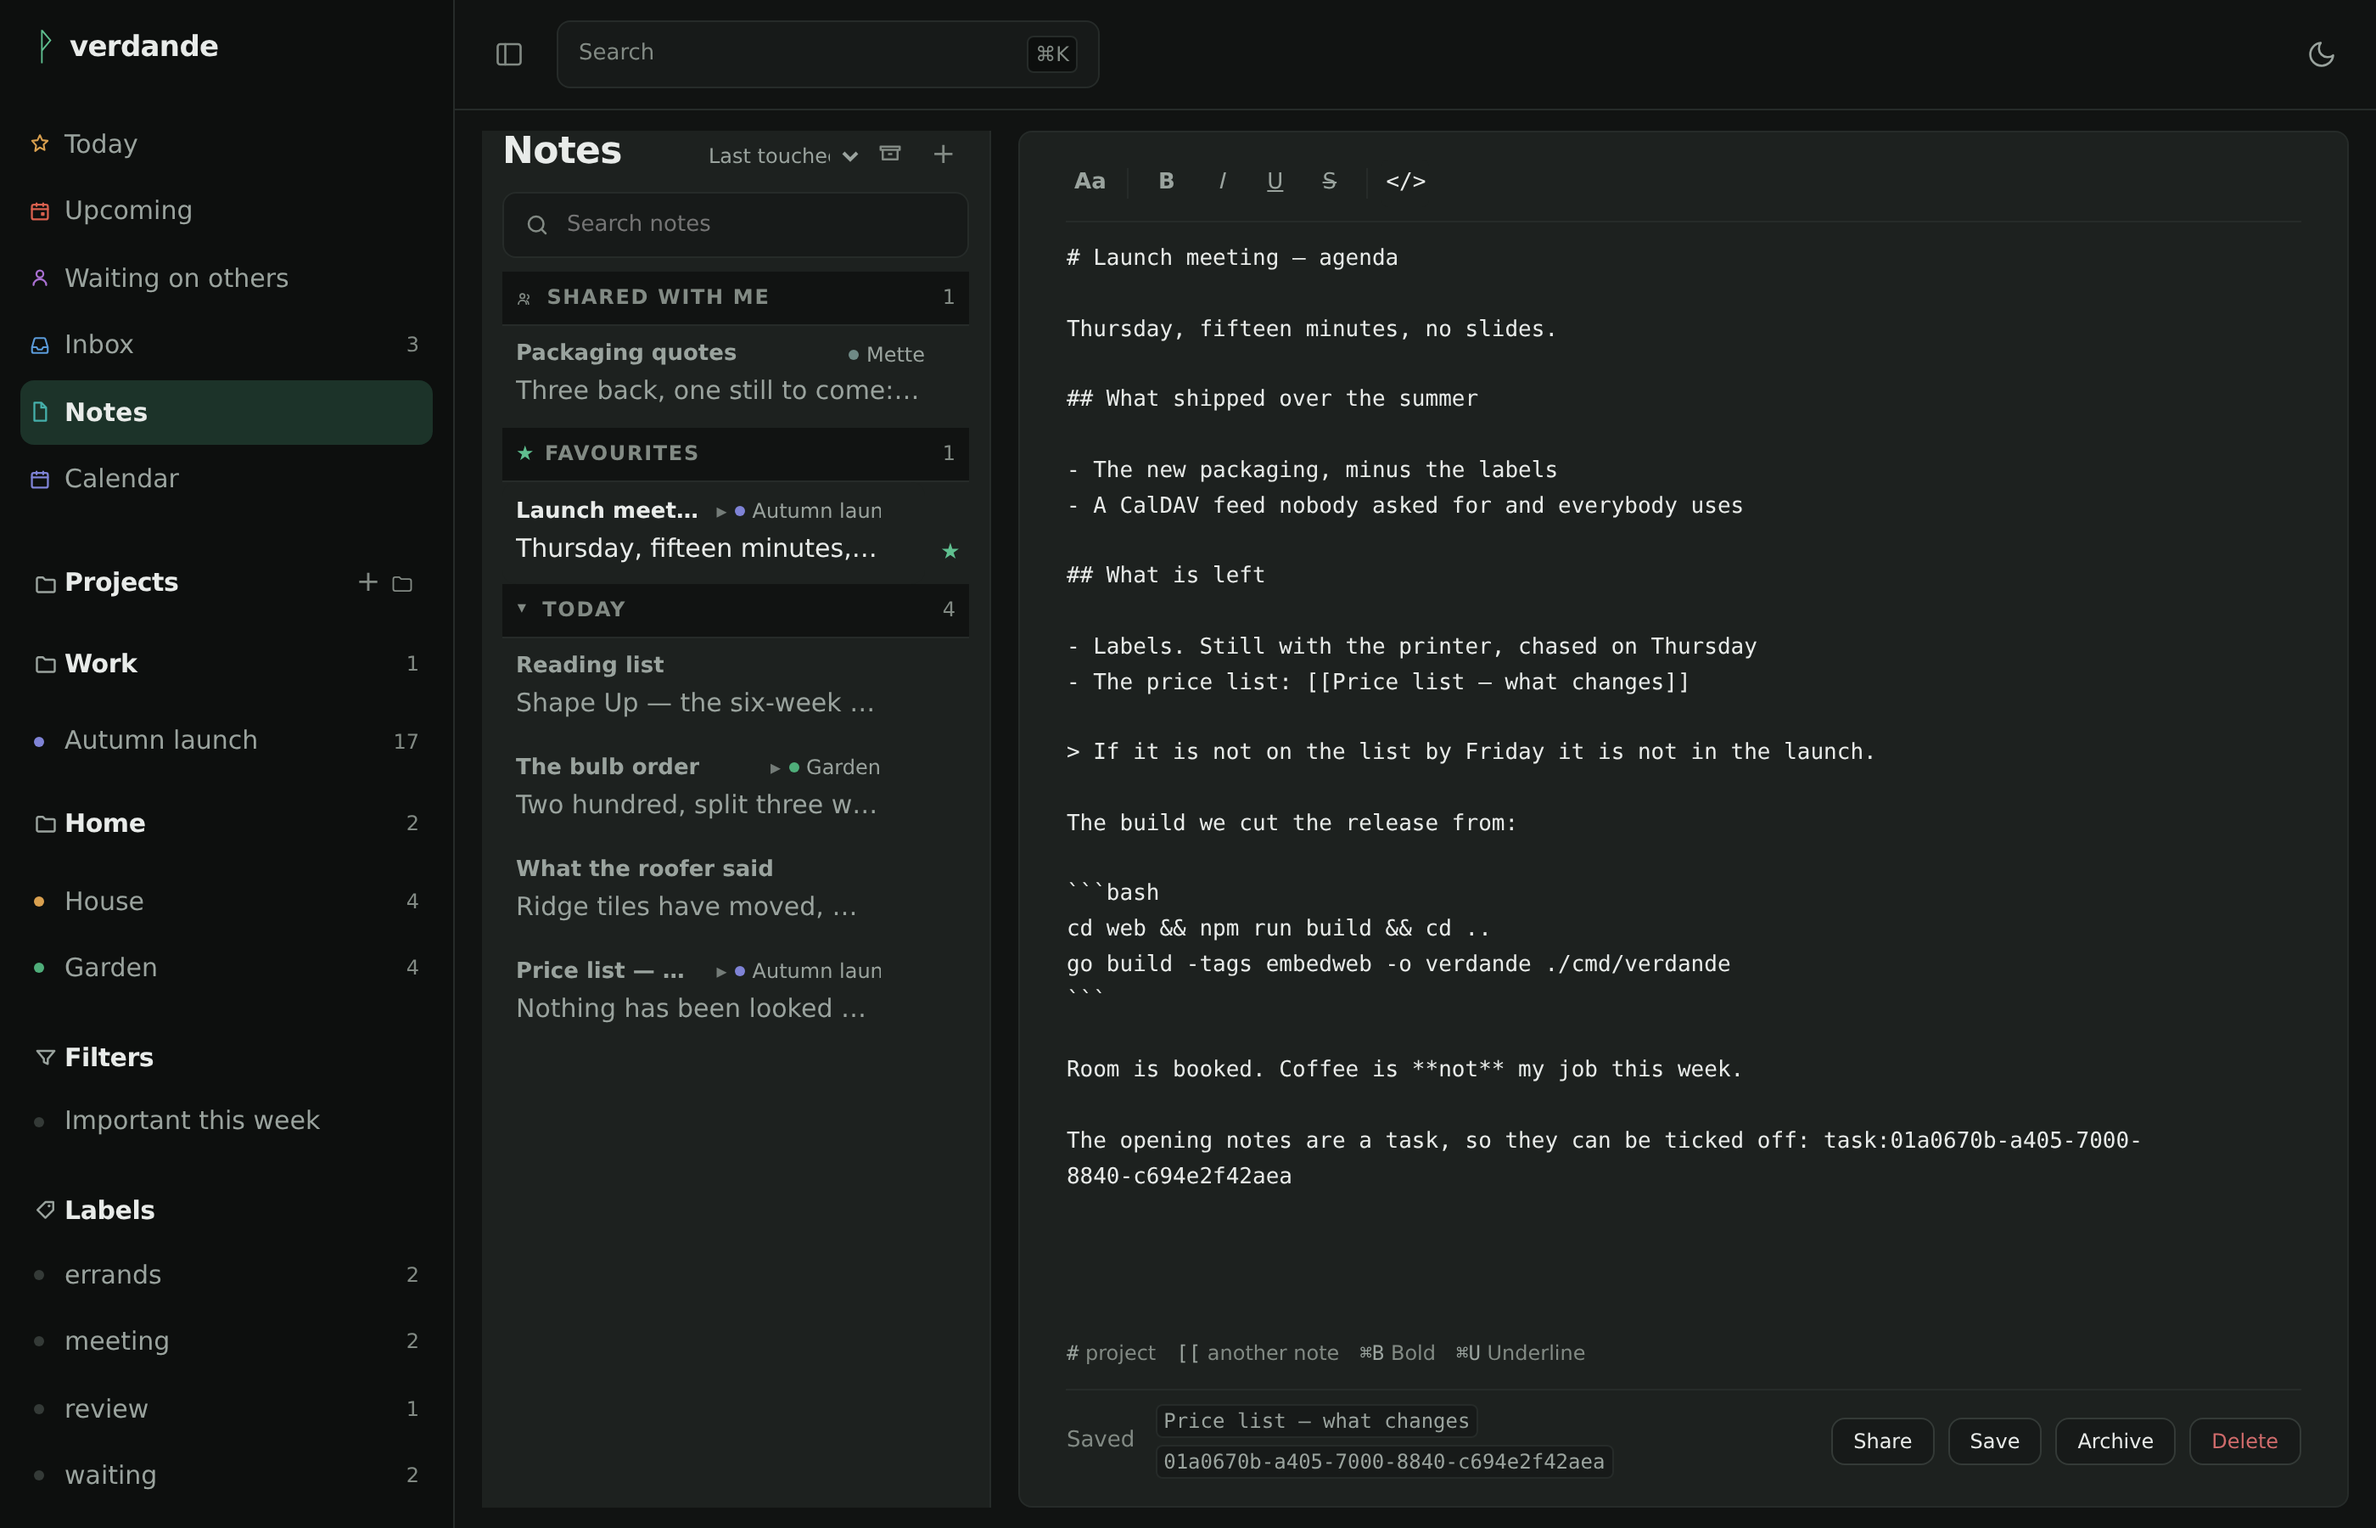
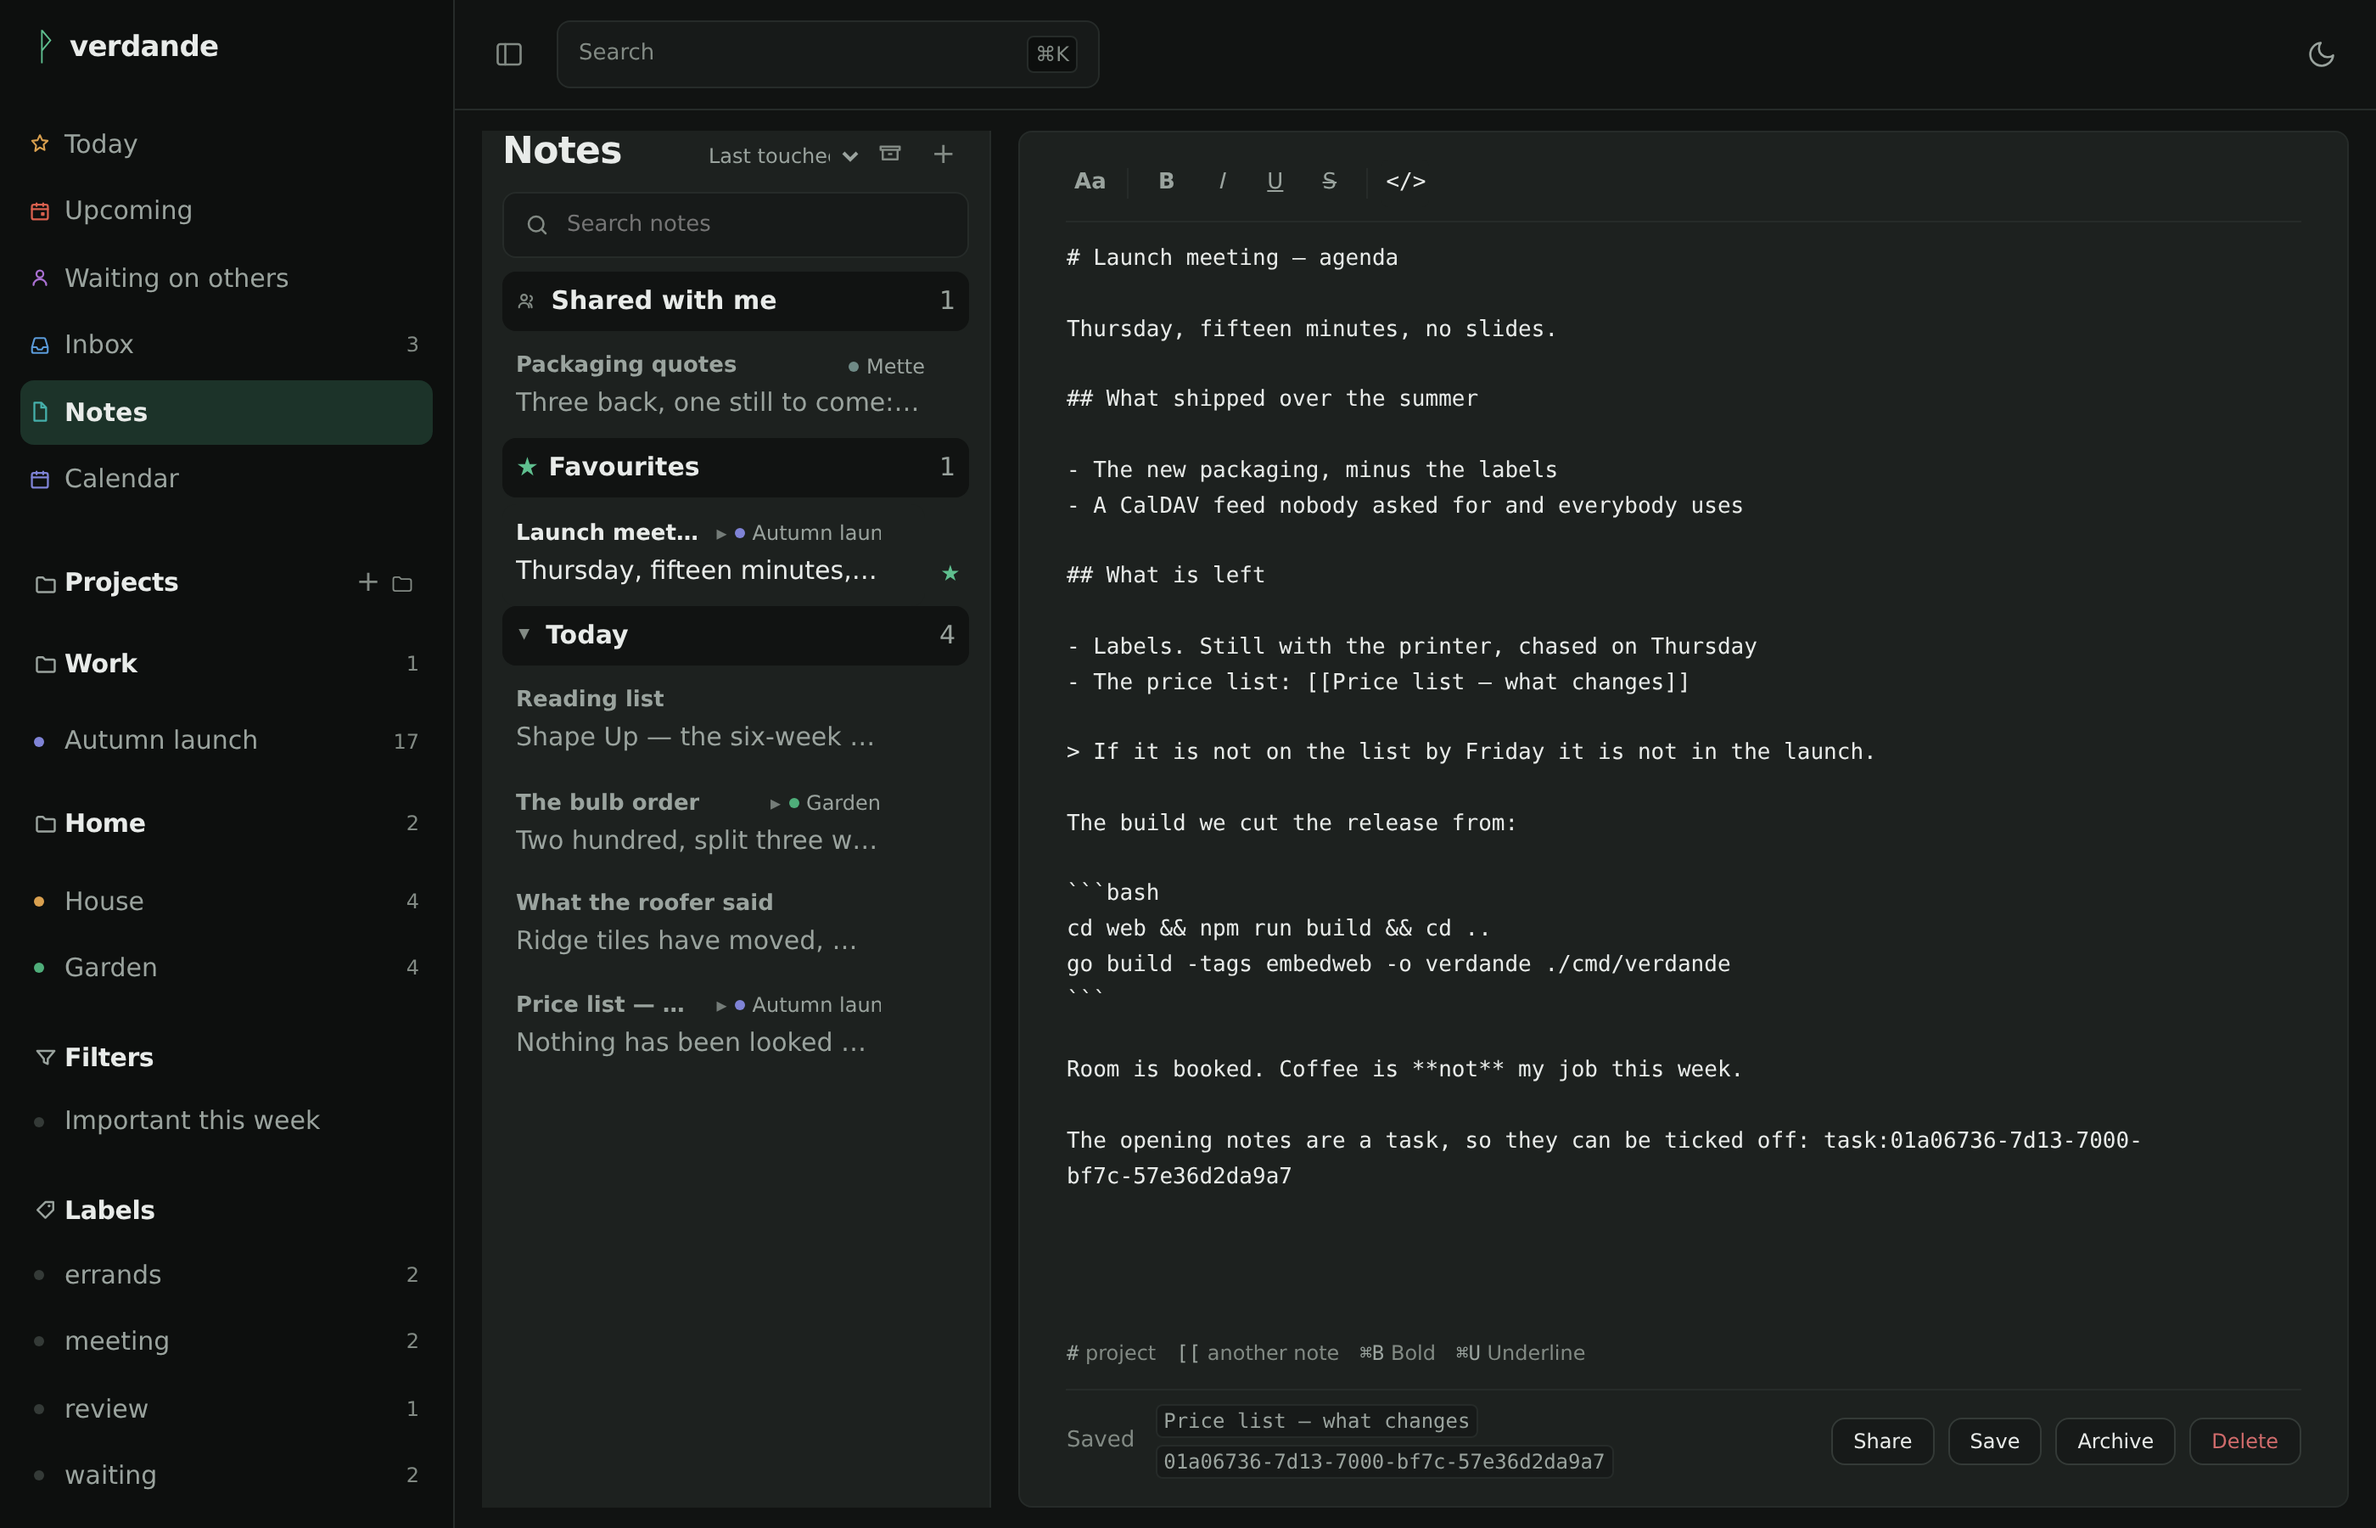
feat(notes): match the note-list headers to the new heading design
The note list still wore the old faint-uppercase group header beside the
sidebar's bold plain-case one, so the two columns read as two apps. The
group headers are bold, plainly cased and in the reading ink now, at
menu size, and their separator boxes carry the same rounded corner as an
active menu item — the hard rule underneath is gone, the box is the
separation. The disclosure mark stays: unlike a sidebar section, a
time-group has no icon, so it is the only thing that says "this folds".

diff --git a/web/src/routes/noter/+page.svelte b/web/src/routes/noter/+page.svelte
@@ -1367,30 +1367,37 @@
 	 *
 	 * Baggrunden er ikke gennemsigtig. En klæbende overskrift uden en er en
 	 * overskrift med rækkerne kørende igennem sig. */
+	/* One design with the sidebar headings: a rounded box, the same corner as an
+	   active menu item, filled just enough to separate one group of notes from the
+	   next. The hard rule underneath is gone — the box is the separation now. */
 	h3.group {
 		position: sticky;
 		top: 0;
 		z-index: 1;
-		margin: 0;
+		margin: 0 0 var(--s1);
 		background: var(--ground);
-		border-bottom: 1px solid var(--line);
+		border-radius: var(--radius);
 	}
 
+	/* Bold and plainly cased, in the reading ink — the faint uppercase label read as
+	   a different app's heading beside the sidebar's. Menu size, so the two tiers of
+	   heading in front of the eye at once are the same size. */
 	h3.group button {
 		display: flex;
 		align-items: center;
 		gap: var(--s2);
 		width: 100%;
 		padding: var(--s2) var(--s2);
-		font-size: var(--text-xs);
+		font-size: var(--menu-size);
 		font-weight: 600;
-		letter-spacing: 0.07em;
-		text-transform: uppercase;
-		color: var(--ink-faint);
+		letter-spacing: normal;
+		text-transform: none;
+		color: var(--ink);
+		border-radius: var(--radius);
 	}
 
 	h3.group button:hover {
-		color: var(--ink-muted);
+		background: var(--surface-sunken);
 	}
 
 	h3.group .mark {
@@ -1419,6 +1426,7 @@
 		margin-left: auto;
 		font-weight: 500;
 		letter-spacing: 0;
+		color: var(--ink-muted);
 	}
 
 	/* Stregen mellem rækkerne er væk.
